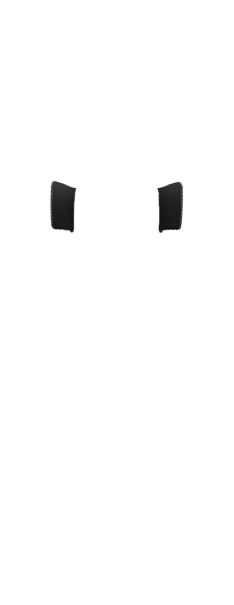
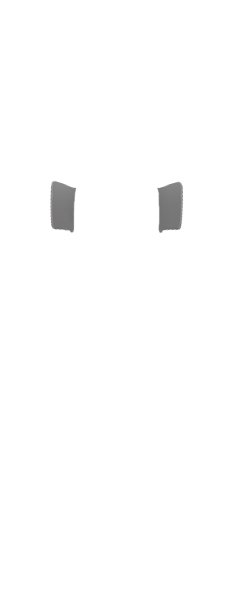
FIxed blinders contrast and default color

Changed region(s): [[0.6581, 0.2975, 0.8077, 0.3868], [0.2094, 0.2975, 0.3291, 0.3868]]

diff --git a/BondageClub/Assets/Female3DCG/Female3DCG.js b/BondageClub/Assets/Female3DCG/Female3DCG.js
@@ -4412,7 +4412,7 @@ var AssetFemale3DCG = [
 				]
 			},
 			{
-				Name: "PonyGag", Category: ["Pony"], Fetish: ["Leather", "Pony", "Pet"], Value: 150, Difficulty: 5, Time: 8, Random: false, AllowLock: true, DrawLocks: false, BuyGroup: "PonyGag", Prerequisite: ["GagUnique", ""], DefaultColor: ["Default", "Default", "#383838", "Default", "#B24031", "#EAEAEA", "Default", "#FF95DB", "#383838", "Default", "#383838", "#956B1C", "#8A7055"], Effect: [], Extended: true, AlwaysExtend: true, Bonus: "KidnapBruteForce", Top: -57, Left: 133,
+				Name: "PonyGag", Category: ["Pony"], Fetish: ["Leather", "Pony", "Pet"], Value: 150, Difficulty: 5, Time: 8, Random: false, AllowLock: true, DrawLocks: false, BuyGroup: "PonyGag", Prerequisite: "GagUnique", DefaultColor: ["Default", "Default", "#383838", "Default", "#B24031", "#EAEAEA", "Default", "#FF95DB", "#383838", "Default", "#383838", "#956B1C", "#8A7055", "#383838"], Effect: [], Extended: true, AlwaysExtend: true, Bonus: "KidnapBruteForce", Top: -57, Left: 133,
 				Layer: [
 					// Layers: Metal, Straps, Plume, Horn, Panel
 					{ Name: "BaseMetal", HasType: false},
